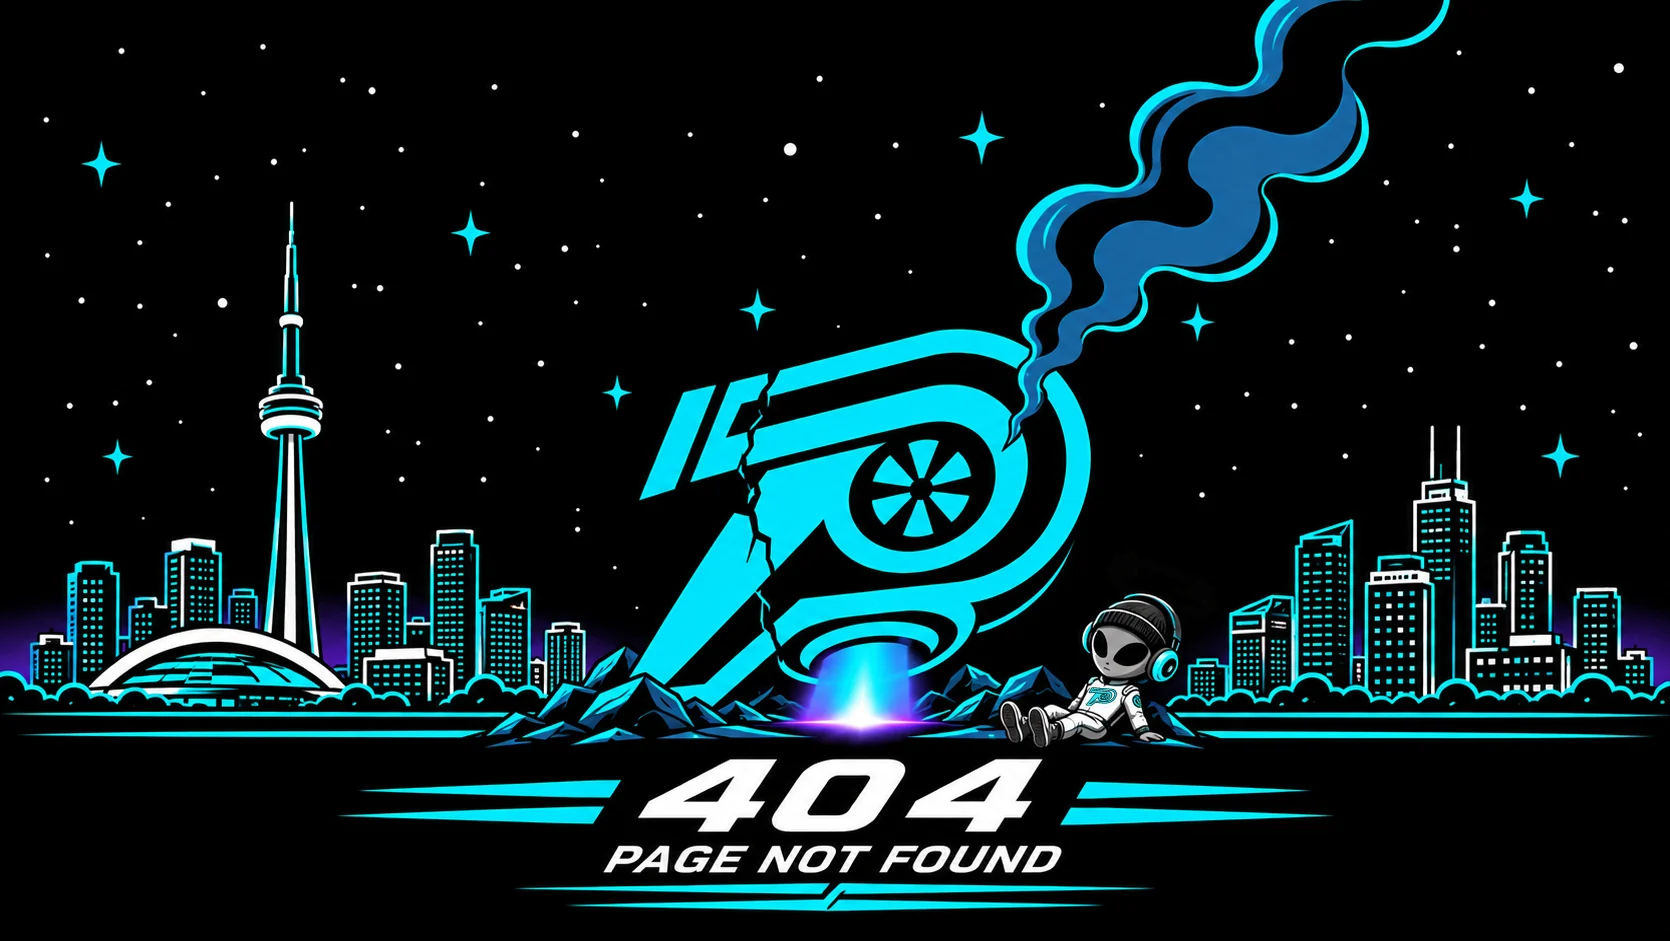
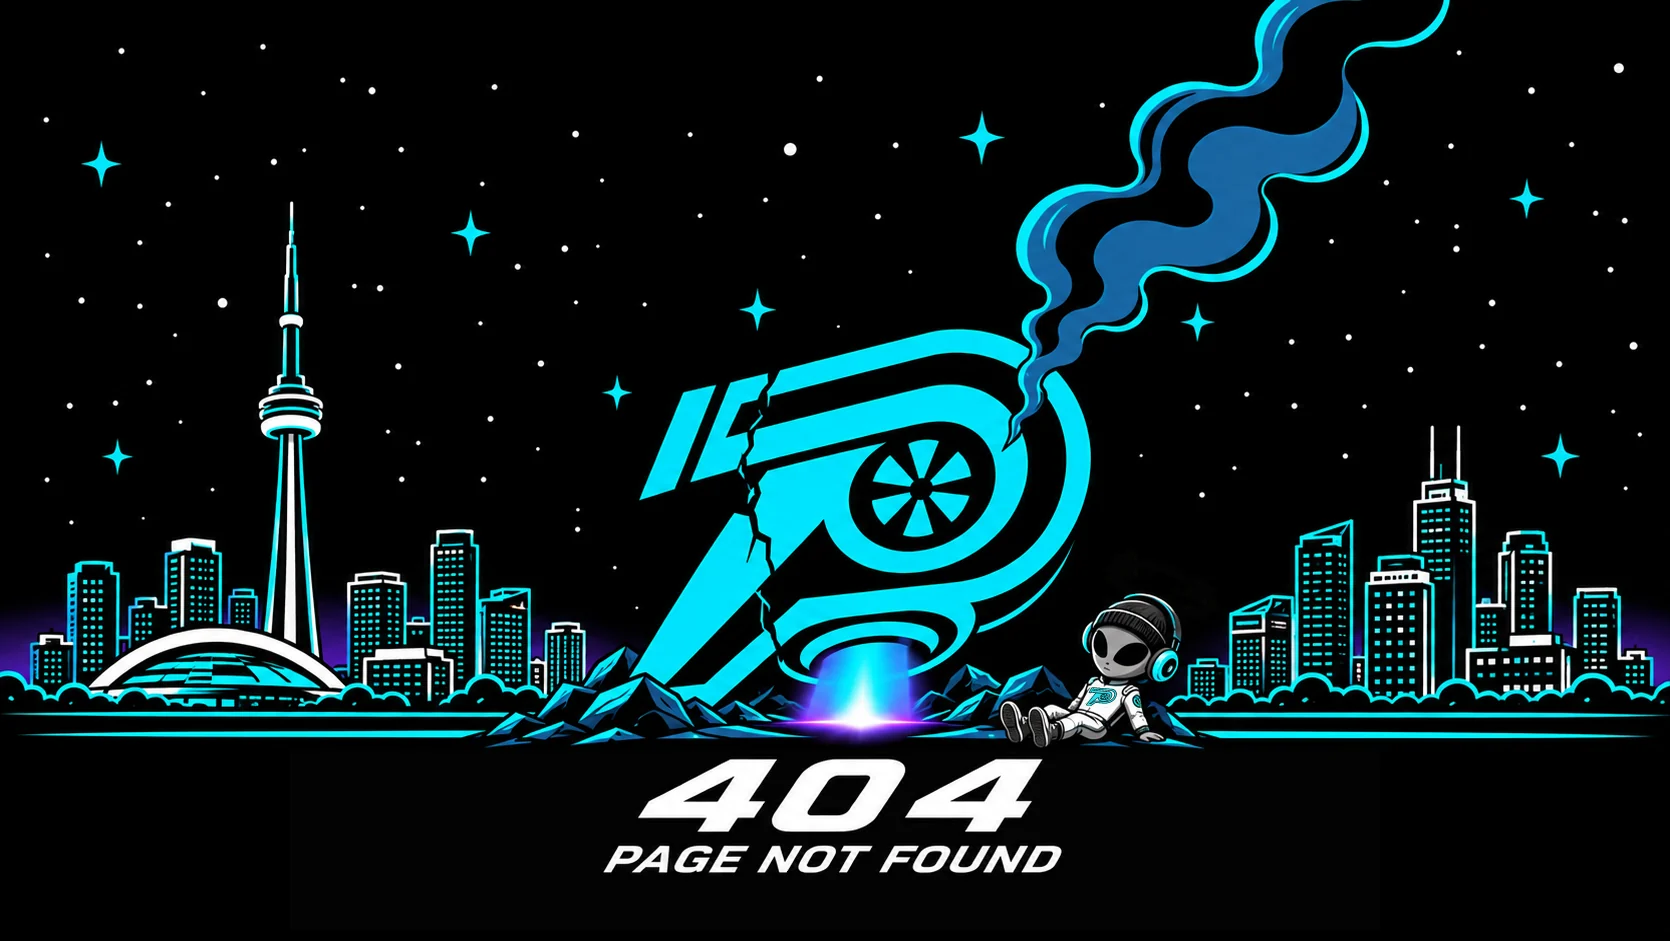
404: broken turbo spin, no stripes, no menu
- Turbine wheel spins like it's malfunctioning: spools up, seizes and
  shudders, kicks backwards, limps, stalls with twitches, bursts, clunks
  to a stop (5.4s loop; still for reduced motion)
- Removed the speed stripes and lines around the 404 text from the art
- Removed the site menu from the 404; the scene is bigger as a result
- Moving layers (wheel, smoke) sit on a solid backing so the still art
  never shows through them

Claude-Session: https://claude.ai/code/session_01NDfyaX1PZjyWjTcvrhroKb

Changed region(s): [[0.3114, 0.9245, 0.685, 0.9862], [0.218, 0.8013, 0.3737, 0.8937], [0.6228, 0.8321, 0.7784, 0.8937]]

diff --git a/404.html b/404.html
@@ -3,7 +3,6 @@
 <head>
 <meta charset="UTF-8">
 <meta name="viewport" content="width=device-width, initial-scale=1.0">
-<script src="/pc-nav.js" defer></script>
 <title>Page not found — Performance Connect</title>
 <meta name="robots" content="noindex">
 <meta name="theme-color" content="#070808">
@@ -54,12 +53,13 @@
   .stage{
     position:relative;flex:none;
     /* as big as fits with the text still on screen, never wider than the window */
-    width:min(100vw, max(640px, calc((100svh - 420px) * 1.7747)), 1670px);
+    width:min(100vw, max(640px, calc((100svh - 300px) * 1.7747)), 1670px);
     aspect-ratio:1670/941;
   }
   .stage img,.stage svg{position:absolute;inset:0;width:100%;height:100%;display:block}
   /* the artwork is drawn on pure black; 'lighten' lets the site's near-black show through, so no black box */
-  .stage img,.smoke{mix-blend-mode:lighten}
+  /* moving layers sit on a solid page-colour backing so the still art underneath never shows through */
+  .stage img,.lift{mix-blend-mode:lighten}
   /* phones: zoom in on the crash (P, alien, 404) instead of shrinking the whole skyline */
   @media (max-width:700px){
     .scene{justify-content:flex-start}
@@ -164,8 +164,17 @@
         </defs>
 
         <!-- smoke -->
-        <g class="smoke" mask="url(#smokeMask)">
-          <image href="/assets/404/crash-scene.webp" x="0" y="0" width="1670" height="941" filter="url(#wobble)"/>
+        <g mask="url(#smokeMask)">
+          <rect x="990" y="0" width="490" height="460" fill="#070808"/>
+          <image class="lift" href="/assets/404/crash-scene.webp" x="0" y="0" width="1670" height="941" filter="url(#wobble)"/>
+        </g>
+
+        <!-- the turbo wheel: a round cut-out of the art, spun by the script below.
+             Inside this circle it's only spokes on black, so turning it never shows a seam. -->
+        <clipPath id="wheelClip"><circle cx="920.75" cy="488.25" r="56"/></clipPath>
+        <g clip-path="url(#wheelClip)">
+          <circle cx="920.75" cy="488.25" r="56" fill="#070808"/>
+          <image class="lift" id="wheel" href="/assets/404/crash-scene.webp" x="0" y="0" width="1670" height="941"/>
         </g>
 
         <!-- crash glow under the P -->
@@ -227,12 +236,44 @@
     var s = 1.25 + 0.3 * Math.sin(a);
     el.setAttribute('transform', 'translate(' + x.toFixed(2) + ' ' + y.toFixed(2) + ') rotate(' + (-16 + a * 57.3 * 0.5).toFixed(1) + ') scale(' + s.toFixed(3) + ')');
   }
+  // Turbo wheel: a busted spin. One 5.4s loop: spools up, seizes and shudders,
+  // kicks backwards, limps, stalls with twitches, bursts, then clunks to a stop.
+  var wheel = document.getElementById('wheel');
+  var WX = 920.75, WY = 488.25, ang = 0, last = null, twitchAt = 0;
+  function speed(c) {              // degrees per second at time c (0..5.4) in the loop
+    if (c < 1.3) return 1150 * Math.pow(c / 1.3, 1.6);                  // spool up
+    if (c < 1.5) return 0;                                              // seize
+    if (c < 1.68) return -320;                                          // kick back
+    if (c < 2.6) return 260 + 330 * Math.sin(c * 23) * Math.sin(c * 7);  // limping, stuttering
+    if (c < 3.1) return 0;                                              // stall
+    if (c < 3.45) return 1500;                                          // sudden burst
+    if (c < 4.7) {                                                      // winding down, with clunks
+      var d = (c - 3.45) / 1.25, v = 1500 * Math.pow(1 - d, 2);
+      return (c * 10 % 3 < 0.45) ? v * 0.1 : v;
+    }
+    return 0;                                                           // dead
+  }
+  function shaking(c) { return (c >= 1.3 && c < 1.62) || (c >= 3.0 && c < 3.12); }
+  function spin(t) {
+    var dt = last == null ? 0 : Math.min(0.05, (t - last) / 1000); last = t;
+    var c = (t / 1000) % 5.4;
+    ang = (ang + speed(c) * dt) % 360;
+    var jx = 0, jy = 0;
+    if (shaking(c)) { jx = (Math.random() - 0.5) * 3; jy = (Math.random() - 0.5) * 3; }
+    if (c >= 2.6 && c < 3.1 && t > twitchAt) {                          // stalled: little twitches
+      ang += (Math.random() - 0.5) * 14; twitchAt = t + 90 + Math.random() * 160;
+    }
+    wheel.setAttribute('transform', 'translate(' + jx.toFixed(2) + ' ' + jy.toFixed(2) + ') rotate(' + ang.toFixed(2) + ' ' + WX + ' ' + WY + ')');
+  }
+
   function frame(t) {
+    spin(t);
     var a = (t / PERIOD) * Math.PI * 2;
     place(s1, a + 3.6);   // start roughly where the drawn stars were
     place(s2, a + 0.45);
     if (!still && !document.hidden) requestAnimationFrame(frame);
   }
+  document.addEventListener('visibilitychange', function () { last = null; });
   if (still) {
     if (svg.pauseAnimations) svg.pauseAnimations();
     frame(0);
